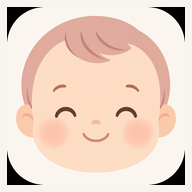
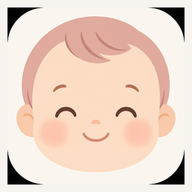
fix: ホーム画面アイコンのビルド失敗を修正（PNG化） (#12)
* fix favicon ICO encoding for Next.js build

Encode favicon.ico as RGBA so next/image ICO decoder
accepts it during the GitHub Pages static export.

* fix replace favicon.ico with PNG app icon

Next.js Turbopack rejects the generated ICO even when
PIL reports RGBA. Use app/icon.png and RGBA public icons
so the Pages build and home-screen assets stay reliable.

---------

diff --git a/app/layout.tsx b/app/layout.tsx
@@ -36,19 +36,19 @@ export const metadata: Metadata = {
   icons: {
     icon: [
       {
-        url: `${basePath}/icon-192.png`,
+        url: `${basePath}/icon-192.png?v=20260802`,
         sizes: "192x192",
         type: "image/png",
       },
       {
-        url: `${basePath}/icon-512.png`,
+        url: `${basePath}/icon-512.png?v=20260802`,
         sizes: "512x512",
         type: "image/png",
       },
     ],
     apple: [
       {
-        url: `${basePath}/apple-touch-icon.png`,
+        url: `${basePath}/apple-touch-icon.png?v=20260802`,
         sizes: "180x180",
         type: "image/png",
       },
